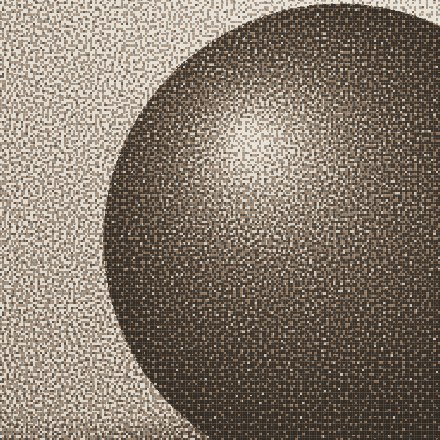
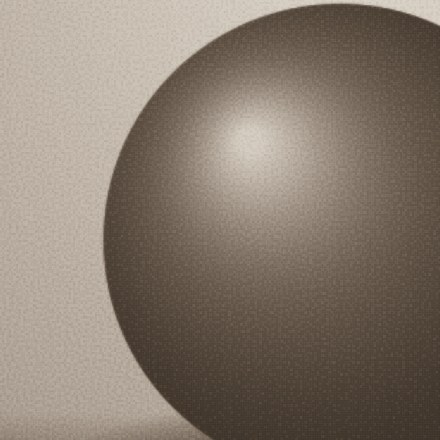
Blend halftone dots into blur by default; JPEG and sized export
Halftone blur is now computed analytically (Gaussian-blurred dot pattern)
in units of the screen pitch, so dots melt the same way at any frequency
or display size. Blur is on by default for all presets. Scan mode uses the
same model with a single sample per pixel, removing the 16-tap loop.
Sharpening falls off with blur to avoid edge halos. Export now offers
long-side 2048/4096/8192 px and JPEG/PNG, defaulting to 2048 px JPEG.

Claude-Session: https://claude.ai/code/session_011mGrBNw3HkwTXjWBetPL4C

diff --git a/manual.html b/manual.html
@@ -107,7 +107,8 @@ footer { margin-top: 64px; padding-top: 12px; border-top: 1px solid var(--line);
   <li><b>網点化</b>：インキ量を、印刷方式ごとの網点（小さな点の集まり）に置き換える</li>
   <li><b>刷り重ね</b>：紙の上に4色のインキを重ねる。版ズレ・にじみ・インキむら・紙の質感もここで加える</li>
 </ol>
-<p>そのため、拡大すると本物の印刷物のようにロゼット模様（4色の網点がつくる花びら状の模様）が見えます。
+<p>網点は、本物の印刷物を見るときと同じく「意識させないもの」として扱います。初期設定では軽いぼかしがかかり、網点はぼけ・紙目・粒状感の中に溶け込んで、うっすらとした質感として残ります。
+ぼかしを下げて拡大すると、ロゼット模様（4色の網点がつくる花びら状の模様）も確認できます。
 さらに「スキャン」をオンにすると、印刷した誌面をスキャナで取り込んだ画像も作れます。</p>
 <p>画像はすべてお使いのブラウザの中で処理されます。インターネットへの送信は一切ありません。</p>
 
@@ -137,7 +138,7 @@ footer { margin-top: 64px; padding-top: 12px; border-top: 1px solid var(--line);
 </figure>
 <table>
   <tr><th>場所</th><th>内容</th></tr>
-  <tr><td>上部のツールバー</td><td>画像を開く・サンプル表示・表示倍率・元画像との比較・書き出し・マニュアル</td></tr>
+  <tr><td>上部のツールバー</td><td>画像を開く・サンプル表示・表示倍率・元画像との比較・書き出し（サイズと形式）・マニュアル</td></tr>
   <tr><td>左のプレビュー</td><td>仕上がりを表示します。拡大・移動ができます（<a href="#view">5. 表示の操作</a>）</td></tr>
   <tr><td>右下の倍率</td><td>現在の表示倍率です。100% のとき、画像の1画素が画面の1画素になります</td></tr>
   <tr><td>右の調整パネル</td><td>上から順に、プリセット・印刷方式・色味・トーン・紙と質感・スキャン</td></tr>
@@ -148,7 +149,7 @@ footer { margin-top: 64px; padding-top: 12px; border-top: 1px solid var(--line);
   <li><b>画像を読み込む</b><br>「画像を開く」を押すか、画像ファイルをプレビューにドラッグ＆ドロップします。コピーした画像を <kbd>Ctrl</kbd>+<kbd>V</kbd>（Mac は <kbd>⌘</kbd>+<kbd>V</kbd>）で貼り付けることもできます。</li>
   <li><b>プリセットを選ぶ</b><br>まず、目指す雰囲気に近いプリセットを選びます。</li>
   <li><b>調整する</b><br>右のパネルで、印刷方式・色味・トーン・紙を調整します。「元画像と比較」を押している間は元の写真が表示されます。</li>
-  <li><b>書き出す</b><br>書き出しサイズを選んで「PNG 書き出し」を押すと、画像が保存されます。</li>
+  <li><b>書き出す</b><br>書き出しサイズと形式を選んで「書き出し」を押すと、画像が保存されます。</li>
 </ol>
 <p>調整した内容はブラウザに自動で保存され、次に開いたときも引き継がれます。最初の状態に戻すには、パネル上部の「リセット」を押します。</p>
 
@@ -163,7 +164,7 @@ footer { margin-top: 64px; padding-top: 12px; border-top: 1px solid var(--line);
   <tr><td>「元画像と比較」ボタン / <kbd>Space</kbd> キー</td><td>押している間だけ元の写真を表示</td></tr>
   <tr><td>スライダーの数値をクリック</td><td>その項目だけ初期値に戻す（スライダーのダブルクリックでも可）</td></tr>
 </table>
-<p>網点は画像に対して固定されているので、拡大・縮小しても網点の配置は変わりません。網点の細かさを確かめるときは 100% 以上に拡大してください。</p>
+<p>網点は画像に対して固定されているので、拡大・縮小しても網点の配置は変わりません。網点の様子を確かめるときは 100% 以上に拡大してください。</p>
 
 <h2 id="presets">6. プリセット</h2>
 <p>よく使う印刷物の雰囲気をまとめた設定です。押すとすべての項目がその値に変わります（インキむらの出方だけは変わりません）。
@@ -180,7 +181,7 @@ footer { margin-top: 64px; padding-top: 12px; border-top: 1px solid var(--line);
   <figure><img src="manual/img/preset_riso.jpg" alt="リソグラフ ZINE の拡大例"><b>リソグラフ ZINE</b><span>リソ用の蛍光インキ。粒の粗さと版ズレが特徴。</span></figure>
 </div>
 <p>上の図はいずれもサンプル画像の一部を等倍で表示したものです。</p>
-<div class="note">プリセットの線数は、<b>iPhone の画面幅いっぱいに表示して見る</b>ことを前提に決めています。PC の大きな画面で見ると網点が目立って見えます。詳しくは <a href="#lpi">12. 線数と見え方</a> を参照してください。</div>
+<div class="note">どのプリセットも、初期設定のぼかし（0.60）で網点がなじむようにしています。網点の粗さをもっと感じさせたいときは、「紙と質感」の「ぼかし」を下げてください。</div>
 
 <h2 id="method">7. 印刷方式</h2>
 <h3>方式の選択</h3>
@@ -234,6 +235,7 @@ footer { margin-top: 64px; padding-top: 12px; border-top: 1px solid var(--line);
 <h2 id="paper">10. 紙と質感</h2>
 <table>
   <tr><th>項目</th><th>内容</th></tr>
+  <tr><td>ぼかし</td><td>網点をなじませるぼかし。網点の間隔を基準にした強さなので、線数や表示サイズが変わっても網点のなじみ方は同じです。0 で網点がくっきり、0.6 前後で網点がうっすらとした質感として残り、1 でほぼ見えなくなります。写真の絵柄も同じ量だけ柔らかくなります</td></tr>
   <tr><td>紙色</td><td>紙の種類（コート紙・マットコート紙・上質紙・更紙・新聞紙・日焼けした古紙）を選ぶか、右の色見本から自由に指定します</td></tr>
   <tr><td>紙の質感</td><td>紙の繊維や細かな斑点の強さ</td></tr>
   <tr><td>インキむら</td><td>インキの乗り方の不均一さ。大きなむらと細かなむらが重なって出ます</td></tr>
@@ -245,51 +247,54 @@ footer { margin-top: 64px; padding-top: 12px; border-top: 1px solid var(--line);
 
 <h2 id="scan">11. スキャン</h2>
 <p>印刷した誌面を、スキャナで取り込んだような画像を作ります。オンにすると、画像の横幅を A4 の幅（横長の画像は A4 横置きの幅）とみなし、
-指定した解像度の画素ごとに網点を平均します。網点がぼけて溶ける様子や、網点とスキャナの画素が干渉してできる細かな模様が再現されます。</p>
+指定した解像度の画素で網点を読み取ります。網点とスキャナの画素が干渉してできる細かな模様や、スキャナのレンズによるぼけが再現されます。</p>
 <table>
   <tr><th>項目</th><th>内容</th></tr>
   <tr><td>オン / オフ</td><td>スキャンの再現を使うかどうか</td></tr>
   <tr><td>解像度</td><td>150dpi・300dpi・600dpi。書き出す画像の大きさもこの解像度で決まります</td></tr>
-  <tr><td>ぼかし</td><td>スキャナのレンズのぼけ（画素単位）。小さいと網点の模様が残り、大きいと網点が消えてなめらかになります</td></tr>
+  <tr><td>スキャナのぼけ</td><td>スキャナのレンズのぼけ（スキャン画素単位）。「紙と質感」の「ぼかし」に上乗せされます</td></tr>
 </table>
 <h3>雑誌スキャンらしく見せるコツ</h3>
 <ul>
   <li>線数は「A4換算」が <b>150〜175線</b> になるように合わせます（プリセット「雑誌スキャン」は 175線）。</li>
-  <li>解像度は 300dpi、ぼかしは 0.5〜0.8px 程度から始めます。</li>
-  <li>網点の模様を残したいときはぼかしを下げ、印刷っぽさを弱めたいときは上げます。</li>
+  <li>解像度は 300dpi、スキャナのぼけは 0.5〜0.8px 程度から始めます。</li>
+  <li>網点の模様を残したいときは「ぼかし」を下げ、印刷っぽさを弱めたいときは上げます。</li>
 </ul>
-<div class="note">スキャンは1画素ごとに多くの計算をするため、通常の表示より重くなります。スライダーの反応が遅いときは、先にスキャンをオフにして調整し、最後にオンにすると快適です。</div>
 
 <h2 id="lpi">12. 線数と見え方</h2>
-<p>線数は「画像の横幅に並ぶ網点の数」です。同じ線数でも、<b>画像を表示する大きさによって網点の見え方が変わります</b>。</p>
+<p>線数は「画像の横幅に並ぶ網点の数」です。同じ線数でも、画像を表示する大きさによって網点そのものの大きさは変わります。
+ただし初期設定ではぼかしで網点がなじんでいるため、見る環境による違いはほとんど気になりません。</p>
 <table>
-  <tr><th>見る環境</th><th>網点の見え方</th></tr>
-  <tr><td>iPhone で画面幅いっぱいに表示</td><td>プリセットの線数でちょうどよく見えるように調整済み</td></tr>
-  <tr><td>PC の大きな画面で表示</td><td>網点が大きく見え、ロゼット模様が目立ちます。目立ちすぎるときは線数を 1.5〜2倍に上げてください</td></tr>
+  <tr><th>調整したいこと</th><th>操作</th></tr>
+  <tr><td>網点を目立たなくしたい</td><td>「ぼかし」を上げる（線数を上げても可）</td></tr>
+  <tr><td>網点の粗さを感じさせたい</td><td>「ぼかし」を下げる、または線数を下げる</td></tr>
+  <tr><td>印刷物の線数に合わせたい</td><td>線数の横の「A4換算 ○線」を見て合わせる（雑誌は 150〜175線が目安）</td></tr>
 </table>
-<p>網点の細かさよりも「スキャンした雑誌」の質感を出したい場合は、<a href="#scan">スキャン</a>を使うと、表示環境に左右されにくい仕上がりになります。</p>
+<p>プリセットの線数は、iPhone の画面幅いっぱいに表示したときにほどよい粗さになるように決めています。</p>
 
 <h2 id="export">13. 書き出し</h2>
-<p>ツールバー右の「PNG 書き出し」で、現在の設定を適用した画像を PNG 形式で保存します。ファイル名は「元のファイル名_プリセットの英字名.png」です（例：<code>photo_mode.png</code>。プリセット適用後に項目を動かした場合は <code>photo_custom.png</code>）。</p>
+<p>ツールバー右のサイズと形式を選んで「書き出し」を押すと、現在の設定を適用した画像を保存します。
+ファイル名は「元のファイル名_プリセットの英字名」です（例：<code>photo_mode.jpg</code>。プリセット適用後に項目を動かした場合は <code>photo_custom.jpg</code>）。</p>
 <table>
-  <tr><th>設定</th><th>書き出すサイズ</th></tr>
-  <tr><td>原寸</td><td>読み込んだ画像と同じ大きさ（長辺 4096px まで）</td></tr>
-  <tr><td>2倍</td><td>縦横2倍の大きさ。網点の形がより精細に出ます（長辺 8192px まで）</td></tr>
-  <tr><td>スキャンがオンのとき</td><td>スキャン解像度で決まる大きさ（例：A4・300dpi なら横 2480px）。サイズの選択は無効になります</td></tr>
+  <tr><th>設定</th><th>内容</th></tr>
+  <tr><td>長辺 2048px（初期値）</td><td>画像の長い辺が 2048px になる大きさ。iPhone などで見るには十分です</td></tr>
+  <tr><td>長辺 4096px / 8192px</td><td>大きく表示・印刷したいとき用。ファイルが大きくなります</td></tr>
+  <tr><td>JPEG（初期値）</td><td>容量が小さい形式。長辺 2048px で 1MB 前後です</td></tr>
+  <tr><td>PNG</td><td>劣化のない形式。網点や粒で圧縮が効きにくく、JPEG の 5〜10 倍の容量になります</td></tr>
+  <tr><td>スキャンがオンのとき</td><td>大きさはスキャン解像度で決まります（例：A4・300dpi なら横 2480px）。サイズの選択は無効になり、形式だけ選べます</td></tr>
 </table>
-<div class="note">書き出した画像を SNS などに投稿すると、サービス側で縮小・圧縮されて網点がつぶれたり、縞模様（モアレ）が出たりすることがあります。投稿先の表示サイズに近い大きさで書き出すと防ぎやすくなります。</div>
+<div class="note">書き出した画像を SNS などに投稿すると、サービス側で縮小・圧縮されて縞模様（モアレ）が出ることがあります。投稿先の表示サイズに近い大きさで書き出し、「ぼかし」を少し上げると防ぎやすくなります。</div>
 
 <h2 id="faq">14. 困ったときは</h2>
 <h3>「WebGL2 が使えないため動作しません」と表示される</h3>
 <p>ブラウザが WebGL2 に対応していないか、無効になっています。Chrome・Edge・Safari・Firefox の最新版でお試しください。Chrome の場合は、設定の「システム」で「グラフィック アクセラレーションが使用可能な場合は使用する」をオンにしてください。</p>
 <h3>動作が重い</h3>
 <ul>
-  <li>スキャンをオフにして調整し、最後にオンにしてください。</li>
   <li>表示を「フィット」にすると、拡大表示より軽くなります。</li>
   <li>非常に大きな画像は、あらかじめ長辺 4000px 程度に縮小しておくと快適です。</li>
 </ul>
-<h3>ロゼット模様（網点）が目立ちすぎる / 見えない</h3>
-<p>線数を調整してください。目立ちすぎるときは上げ、見えないときは下げます。表示倍率でも見え方が変わるので、100% 表示で確認してください。</p>
+<h3>網点が目立ちすぎる / 見えない</h3>
+<p>「紙と質感」の「ぼかし」を調整してください。目立ちすぎるときは上げ、見えないときは下げます。線数でも調整できます（上げると細かく、下げると粗くなります）。</p>
 <h3>色がくすむ・濁る</h3>
 <p>「色再現の補正」を上げる、「墨版の量」を下げる、「黒の浮き」を下げる、の順に試してください。</p>
 <h3>設定が初期状態に戻ってしまう</h3>
@@ -302,7 +307,7 @@ footer { margin-top: 64px; padding-top: 12px; border-top: 1px solid var(--line);
   <tr><th>項目</th><th>内容</th></tr>
   <tr><td>読み込める画像</td><td>JPEG・PNG・WebP など、ブラウザが表示できる形式</td></tr>
   <tr><td>処理する解像度</td><td>長辺 4096px まで。これより大きい画像は縮小して処理します</td></tr>
-  <tr><td>書き出し</td><td>PNG 形式、長辺 8192px まで</td></tr>
+  <tr><td>書き出し</td><td>JPEG・PNG 形式、長辺 8192px まで</td></tr>
   <tr><td>色の扱い</td><td>sRGB の画像として処理します。カラープロファイル（Adobe RGB など）や CMYK の画像の色は正確には扱えません</td></tr>
   <tr><td>印刷用データ</td><td>見た目を再現するツールです。印刷会社に入稿する CMYK データの作成には使えません</td></tr>
   <tr><td>通信</td><td>なし。画像も設定も外部に送信しません</td></tr>

diff --git a/js/renderer.js b/js/renderer.js
@@ -128,6 +128,7 @@ uniform vec3 u_bg;
 uniform int u_scan;           // 1: スキャナの画素格子へ描画中
 uniform float u_scanBlur;     // スキャナ光学系のぼけ (σ, スキャン画素)
 uniform vec2 u_seed;          // むら・紙目・粒状の乱数オフセット
+uniform float u_blur;         // 網点のぼかし (σ, 網点の間隔を 1 とする単位)
 ${COMMON}
 const float TAU = 6.2831853;
 
@@ -153,14 +154,18 @@ float chan(vec4 v, int i) { return i == 0 ? v.r : (i == 1 ? v.g : (i == 2 ? v.b 
 
 // 版 i の網点面積率を読む (ぼかし / シャープを含む)
 float readCh(int i, vec2 uv) {
-  float lod0 = max(0.0, log2(u_img.x / u_ppw));
+  float lodView = max(0.0, log2(u_img.x / u_ppw));   // 表示倍率だけで決まる lod
+  float lod0 = lodView;
   if (u_scan == 1) lod0 = max(lod0, log2(max(1.0, 2.5 * u_scanBlur * u_img.x / u_ppw)));
+  lod0 = max(lod0, log2(max(1.0, 2.5 * u_blur * u_img.x / u_freq)));   // 網点と同じぼけを絵柄にも
   float soft = max(0.0, -u_sharp);
   float lod = max(lod0, log2(1.0 + soft * u_img.x / 250.0));
   float e = chan(textureLod(u_cmyk, uv, lod), i);
   if (u_sharp > 0.0) {
-    float b = chan(textureLod(u_cmyk, uv, lod + 2.0), i);
-    e += u_sharp * 1.5 * (e - b);
+    // シャープは印刷前に細かい半径で掛かり、そのあとでぼける。ぼかしで lod が上がった分だけ効きを弱め、
+    // ぼけた画像に広い半径のシャープが掛かって輪郭に白い縁取りが出るのを防ぐ
+    float b = chan(textureLod(u_cmyk, uv, lod + 1.0), i);
+    e += u_sharp * 1.5 * exp2(-1.5 * (lod - lodView)) * (e - b);
   }
   e = clamp(e, 0.0, 1.0);
   return 1.0 - pow(1.0 - e, 2.2);
@@ -174,8 +179,33 @@ float screenAngle(int i) {
   return radians(u_angle + (i == 0 ? 15.0 : (i == 1 ? 75.0 : (i == 2 ? 0.0 : 45.0))));
 }
 
+// 標準正規分布の累積分布関数 (近似)
+float Phi(float z) { return 0.5 + 0.5 * tanh(0.7978845608 * (z + 0.044715 * z * z * z)); }
+// 幅 2h の帯が間隔 1 で並ぶ模様を、σ のガウスでぼかした値。x は帯の中心からの位置
+float bandBlur(float x, float h, float sg) {
+  float r = 0.0;
+  for (int n = -1; n <= 1; n++) {
+    float c = x - float(n);
+    r += Phi((c + h) / sg) - Phi((c - h) / sg);
+  }
+  return r;
+}
+// 網点をガウスでぼかした面積率を式で求める (正方形の網点で近似。ぼけが網点の形の差より大きいので見分けはつかない)
+// g は網点格子の座標。平均は常に v に一致する
+float blurredAM(vec2 g, float v, float sg) {
+  if (u_shape == 2) return bandBlur(fract(g.x) - 0.5, 0.5 * v, sg);
+  vec2 c = fract(g + 0.5) - 0.5;            // 網点の中心 (整数格子) からの位置
+  vec2 hc = fract(g) - 0.5;                 // 抜け (半整数格子) からの位置
+  float hd = 0.5 * sqrt(v);
+  float dotP = bandBlur(c.x, hd, sg) * bandBlur(c.y, hd, sg);
+  float hh = 0.5 * sqrt(1.0 - v);
+  float holeP = 1.0 - bandBlur(hc.x, hh, sg) * bandBlur(hc.y, hh, sg);
+  return mix(dotP, holeP, smoothstep(0.4, 0.6, v));
+}
+
 // AM スクリーン (オフセット / 活版)。dm はインキ膜厚の倍率 (活版のマージナルゾーン用)
-float screenAM(int i, vec2 q, float v, float ppc, bool press, out float dm) {
+// sgT は網点に掛かるぼけの合計 (σ, 網点間隔単位)。大きいときは式で求めたぼけた網点を使う
+float screenAM(int i, vec2 q, float v, float ppc, bool press, float sgT, out float dm) {
   dm = 1.0;
   vec2 g = rot(screenAngle(i)) * q * u_freq;
   float e, gr;
@@ -202,7 +232,12 @@ float screenAM(int i, vec2 q, float v, float ppc, bool press, out float dm) {
     float rim = exp(-pow(d / 0.07, 2.0));
     dm = mix(1.0, 0.68 + 0.8 * rim, vis);
   }
-  return mix(v, cov, vis);
+  float sharp = mix(v, cov, vis);
+  float t = smoothstep(0.06, 0.16, sgT);
+  if (t <= 0.0) return sharp;
+  dm = mix(dm, 1.0, t);
+  float soft = sgT > 0.6 ? v : blurredAM(g, v, sgT);
+  return mix(sharp, soft, t);
 }
 
 // FM (ストキャスティック) スクリーン。rough > 0 でリソグラフ風の荒れた粒
@@ -216,7 +251,7 @@ float screenFM(int i, vec2 q, float v, float ppc, float rough) {
   vec2 f = abs(fract(g) - 0.5);
   float d = pow(pow(f.x, 4.0) + pow(f.y, 4.0), 0.25);
   float R = 0.5 * clamp(mix(0.75, 1.25, smoothstep(0.25, 0.6, v)) + (v - thr) * 6.0, 0.0, 1.25);
-  float aaw = 1.0 + u_spread * 0.35 * ppc;
+  float aaw = 1.0 + (u_spread * 0.35 + u_blur * 1.5) * ppc;
   float cov = step(thr, v) * clamp((R - d) * ppc / aaw + 0.5, 0.0, 1.0);
   cov = edgeGuard(cov, v);
   return mix(v, cov, smoothstep(1.3, 3.0, ppc));
@@ -241,7 +276,8 @@ float screenGravure(int i, vec2 q, float v, float ppc) {
 }
 
 // 4版ぶんのインキ層の透過率。val は各版の網点面積率、ppc は網点1個あたりの標本数
-vec3 inkLayer(vec2 uv, float aspect, vec4 val, float ppc, float mott) {
+// sgAM: AM 網点に掛かるぼけ (σ)。atten: FM・グラビア・リソの網点の模様を残す割合
+vec3 inkLayer(vec2 uv, float aspect, vec4 val, float ppc, float mott, float sgAM, float atten) {
   vec3 r = vec3(1.0);
   for (int i = 0; i < 4; i++) {
     vec2 uvi = uv + u_misreg[i];
@@ -249,11 +285,12 @@ vec3 inkLayer(vec2 uv, float aspect, vec4 val, float ppc, float mott) {
     float v = val[i];
     float dm = 1.0;
     float cov = v;
-    if (u_method == 1) cov = screenAM(i, qi, v, ppc, false, dm);
+    if (u_method == 1) cov = screenAM(i, qi, v, ppc, false, sgAM, dm);
     else if (u_method == 2) cov = screenFM(i, qi, v, ppc, 0.0);
     else if (u_method == 3) cov = screenGravure(i, qi, v, ppc);
-    else if (u_method == 4) cov = screenAM(i, qi, v, ppc, true, dm);
+    else if (u_method == 4) cov = screenAM(i, qi, v, ppc, true, sgAM, dm);
     else if (u_method == 5) cov = screenFM(i, qi, v, ppc, 0.25);
+    if (u_method == 2 || u_method == 3 || u_method == 5) cov = v + (cov - v) * atten;
     vec3 T = pow(u_ink[i], vec3(max(0.0, u_dens[i] * mott * dm)));
     r *= mix(vec3(1.0), T, cov);
   }
@@ -285,32 +322,12 @@ void main() {
     val[i] = clamp(v + u_dotGain * 4.0 * v * (1.0 - v), 0.0, 1.0);
   }
 
-  vec3 ink;
-  if (u_scan == 1) {
-    // スキャン: 画素ごとに、網点をガウス窓で積分する (網点と画素格子の干渉もここで生じる)
-    const int N = 4;
-    float sigma = max(u_scanBlur, 0.35);
-    float R = max(0.5, 2.0 * sigma);
-    // 網点の輪郭は鋭く計算する。輪郭をぼかすと極小の網点が実際より大きく数えられ、淡い部分に段差が出る
-    float tapPpc = max(ppc * float(N) / (2.0 * R) * 6.0, 16.0);
-    vec2 jit = vec2(hash21(gl_FragCoord.xy), hash21(gl_FragCoord.yx + 17.3));
-    float ja = hash21(gl_FragCoord.xy * 1.7 + 5.1) * TAU;
-    vec3 acc = vec3(0.0);
-    float wsum = 0.0;
-    for (int y = 0; y < N; y++) {
-      for (int x = 0; x < N; x++) {
-        // 標本位置を画素ごとに回転・ずらす (固定位置だと網点の大きさが段階的にしか拾えず、階調に段差が出る)
-        vec2 d = ((vec2(float(x), float(y)) + jit) / float(N) * 2.0 - 1.0) * R;
-        d = rot(ja) * d;
-        float w = exp(-dot(d, d) / (2.0 * sigma * sigma));
-        acc += w * inkLayer(v_uv + d / vec2(u_ppw, u_ppw * aspect), aspect, val, tapPpc, mott);
-        wsum += w;
-      }
-    }
-    ink = acc / wsum;
-  } else {
-    ink = inkLayer(v_uv, aspect, val, ppc, mott);
-  }
+  // ぼけの合計。スキャン時はスキャナのぼけ、通常時は表示画素の大きさを加える (どちらも網点間隔単位)
+  float sgPix = u_scan == 1 ? max(u_scanBlur, 0.35) / ppc : 0.4 / ppc;
+  float sgAM = sqrt(u_blur * u_blur + sgPix * sgPix);
+  float sgOther = u_blur * u_blur + (u_scan == 1 ? sgPix * sgPix : 0.0);
+  float atten = exp(-2.0 * 9.8696 * sgOther * 1.2);
+  vec3 ink = inkLayer(v_uv, aspect, val, u_scan == 1 ? max(ppc, 1.0) : ppc, mott, sgAM, atten);
   vec3 res = paper * ink;
 
   // 表面反射による黒浮き (マット感)
@@ -603,6 +620,7 @@ void main() {
       gl.uniform1i(pr.loc('u_bypass'), t.bypass ? 1 : 0);
       gl.uniform1i(pr.loc('u_scan'), t.scan ? 1 : 0);
       gl.uniform1f(pr.loc('u_scanBlur'), P.scanBlur);
+      gl.uniform1f(pr.loc('u_blur'), P.method === 'none' ? 0 : P.blur * 0.5);
       const frac = (x) => x - Math.floor(x);
       gl.uniform2f(pr.loc('u_seed'), 2 * frac(Math.sin(P.seed * 12.9898) * 43758.5453), 2 * frac(Math.sin(P.seed * 78.233) * 43758.5453));
       gl.uniform1f(pr.loc('u_freq'), P.freq);
@@ -693,8 +711,11 @@ void main() {
       this._print(P, inks, { fbo: null, w: cw, h: ch, originX: view.tx, originY: view.ty, extentW, extentH, flip: -1, bypass, scan: false });
     }
 
-    /** 画像全体を PNG Blob にする。スキャン時はスキャン画素数そのまま、それ以外は作業解像度の k 倍 */
-    exportBlob(P, k) {
+    /**
+     * 画像全体を書き出す。opts = {longSide: 長辺の画素数, type: 'image/jpeg' | 'image/png'}
+     * スキャン時は longSide を使わず、スキャン解像度で決まる大きさにする
+     */
+    exportBlob(P, opts) {
       const canvas = this.canvas;
       const prevW = canvas.width, prevH = canvas.height;
       if (P.scan === 'on') {
@@ -702,14 +723,15 @@ void main() {
         canvas.width = sz.w;
         canvas.height = sz.h;
       } else {
-        k = Math.min(k, this.maxExport / Math.max(this.imgW, this.imgH));
-        canvas.width = Math.round(this.imgW * k);
-        canvas.height = Math.round(this.imgH * k);
+        const k = Math.min(opts.longSide, this.maxExport) / Math.max(this.imgW, this.imgH);
+        canvas.width = Math.max(1, Math.round(this.imgW * k));
+        canvas.height = Math.max(1, Math.round(this.imgH * k));
       }
       this.render(P, { scale: canvas.width / this.imgW, tx: 0, ty: 0 }, null);
       const size = { w: canvas.width, h: canvas.height };
       return new Promise((resolve, reject) => {
-        canvas.toBlob((blob) => (blob ? resolve({ blob, ...size }) : reject(new Error('書き出しに失敗しました'))), 'image/png');
+        canvas.toBlob((blob) => (blob ? resolve({ blob, ...size }) : reject(new Error('書き出しに失敗しました'))),
+          opts.type, opts.type === 'image/jpeg' ? 0.92 : undefined);
         canvas.width = prevW;
         canvas.height = prevH;
       });

diff --git a/js/app.js b/js/app.js
@@ -12,7 +12,7 @@
     // トーン
     exposure: 0, contrast: 0, highlights: 0, shadows: 0, fade: 0, sharp: 0,
     // 紙と質感
-    paperColor: '#f4f1ea', paperTex: 0.3, mottle: 0.15, grain: 0.1, matte: 0.2, seed: 0,
+    paperColor: '#f4f1ea', blur: 0.6, paperTex: 0.3, mottle: 0.15, grain: 0.1, matte: 0.2, seed: 0,
     // スキャン
     scan: 'off', scanDpi: '300', scanBlur: 0.6,
   };
@@ -99,6 +99,7 @@
       { key: 'sharp', label: 'シャープネス（ソフト ↔ シャープ）', min: -1, max: 1, step: 0.01 },
     ] },
     { title: '紙と質感', items: [
+      { key: 'blur', label: 'ぼかし（網点をなじませる）', min: 0, max: 1, step: 0.01, show: (p) => p.method !== 'none' },
       { key: 'paperColor', label: '紙色', type: 'paper' },
       { key: 'paperTex', label: '紙の質感', min: 0, max: 1, step: 0.01 },
       { key: 'mottle', label: 'インキむら', min: 0, max: 1, step: 0.01 },
@@ -110,7 +111,7 @@
       { key: 'scan', type: 'choice', options: [['off', 'オフ'], ['on', 'オン']] },
       { key: 'scanDpi', label: '解像度（画像幅を A4 幅に合わせる）', type: 'choice',
         options: [['150', '150dpi'], ['300', '300dpi'], ['600', '600dpi']], show: (p) => p.scan === 'on' },
-      { key: 'scanBlur', label: 'ぼかし（ガウス半径）', min: 0.35, max: 2.5, step: 0.05, unit: ' px', show: (p) => p.scan === 'on' },
+      { key: 'scanBlur', label: 'スキャナのぼけ', min: 0.35, max: 2.5, step: 0.05, unit: ' px', show: (p) => p.scan === 'on' },
     ] },
   ];
 
@@ -309,12 +310,12 @@
     const btn = $('#btn-export');
     btn.disabled = true;
     try {
-      const k = parseFloat($('#export-scale').value);
-      const { blob } = await renderer.exportBlob(params, k);
+      const type = $('#export-format').value;
+      const { blob } = await renderer.exportBlob(params, { longSide: parseInt($('#export-scale').value, 10), type });
       draw();
       const a = document.createElement('a');
       a.href = URL.createObjectURL(blob);
-      a.download = `${fileName}_${presetId}.png`;
+      a.download = `${fileName}_${presetId}.${type === 'image/jpeg' ? 'jpg' : 'png'}`;
       a.click();
       setTimeout(() => URL.revokeObjectURL(a.href), 10000);
     } catch (err) {

diff --git a/index.html b/index.html
@@ -18,10 +18,15 @@
     <button id="btn-compare" type="button" title="押している間、元画像を表示（スペースキーでも可）">元画像と比較</button>
     <span class="sep"></span>
     <select id="export-scale" aria-label="書き出しサイズ">
-      <option value="1">原寸</option>
-      <option value="2" selected>2倍（網点を精細に）</option>
+      <option value="2048" selected>長辺 2048px</option>
+      <option value="4096">長辺 4096px</option>
+      <option value="8192">長辺 8192px</option>
     </select>
-    <button id="btn-export" type="button" class="primary">PNG 書き出し</button>
+    <select id="export-format" aria-label="書き出し形式">
+      <option value="image/jpeg" selected>JPEG</option>
+      <option value="image/png">PNG</option>
+    </select>
+    <button id="btn-export" type="button" class="primary">書き出し</button>
     <span class="sep"></span>
     <a class="btn" href="manual.html" target="_blank" rel="noopener">マニュアル</a>
   </div>
